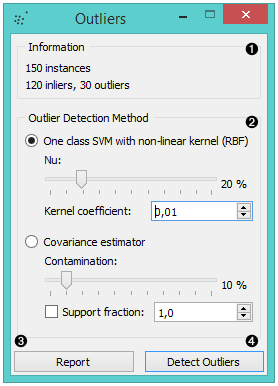
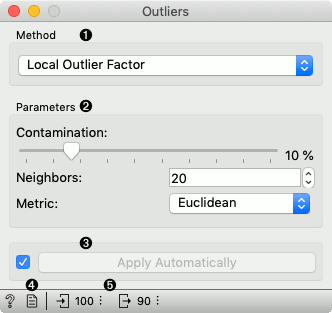
Deploy biolab/orange-hugo to github.com/biolab/orange-hugo.git:gh-pages

diff --git a/categories/predictive-analytics/index.html b/categories/predictive-analytics/index.html
@@ -1,6 +1,6 @@
 <html>    
     <head>
-    <title>Orange Data Mining - Predictive  Analytics</title>
+    <title>Orange Data Mining - Predictive Analytics</title>
     <meta http-equiv="X-UA-Compatible" content="IE=edge">
     <meta name="viewport" content="width=device-width, initial-scale=1.0">
     <meta name="description" content="Orange Data Mining Toolbox">
@@ -242,7 +242,7 @@
 
           
           
-          <li style="display: inline;"><a href="/categories/predictive--analytics" class="active-tag" style="margin-top: 20px !important;">predictive--analytics</a></li>
+          <li style="display: inline;"><a href="/categories/predictive-analytics" class="active-tag" style="margin-top: 20px !important;">predictive-analytics</a></li>
           
 
 
@@ -258,14 +258,14 @@
             
             <div class='content col-md-12 col-xs-12 feature-description' >
             
-            <p class="feature-text" style="margin-bottom:0 !important;font-size: 14px !important;">By: AJDA, Nov 29, 2017</p>
+            <p class="feature-text" style="margin-bottom:0 !important;font-size: 14px !important;">By: AJDA, Nov 30, 2016</p>
                     <h2 class="workflow-title" style="margin-top: 10px !important">
-                        <a href="/blog/2017/11/29/how-to-properly-test-models/" > How to Properly Test Models</a>
+                        <a href="/blog/2016/11/30/data-mining-for-political-scientists/" > Data Mining for Political Scientists</a>
                     </h2>
                 <p class="feature-text">
                   
-               On Monday we finished the second part of the workshop for the Statistical Office of Republic of Slovenia. The crowd was tough - these guys knew their numbers and asked many challenging questions. And we loved it!
-One thing we discussed was how to properly test your model. Ok, we know never to test on the same data you&rsquo;ve built your model with, but even training and testing on separate data is sometimes not enough.
+               Being a political scientist, I did not even hear about data mining before I&rsquo;ve joined Biolab. And naturally, as with all good things, data mining started to grow on me. Give me some data, connect a bunch of widgets and see the magic happen!
+But hold on! There are still many social scientists out there who haven&rsquo;t yet heard about the wonderful world of data mining, text mining and machine learning.
                
 
              </p>
@@ -278,18 +278,26 @@ One thing we discussed was how to properly test your model. Ok, we know never to
                     
                     <a class="tag-workflow" href="/categories/education">education</a>
                     
-                    <a class="tag-workflow" href="/categories/overfitting">overfitting</a>
+                    <a class="tag-workflow" href="/categories/examples">examples</a>
                     
-                    <a class="tag-workflow" href="/categories/predictive--analytics">predictive  analytics</a>
+                    <a class="tag-workflow" href="/categories/orange3">orange3</a>
                     
-                    <a class="tag-workflow" href="/categories/scoring">scoring</a>
+                    <a class="tag-workflow" href="/categories/prediction">prediction</a>
                     
-                    <a class="tag-workflow" href="/categories/workshop">workshop</a>
+                    <a class="tag-workflow" href="/categories/predictive-analytics">predictive analytics</a>
+                    
+                    <a class="tag-workflow" href="/categories/preprocessing">preprocessing</a>
+                    
+                    <a class="tag-workflow" href="/categories/text-mining">text mining</a>
+                    
+                    <a class="tag-workflow" href="/categories/tutorial">tutorial</a>
+                    
+                    <a class="tag-workflow" href="/categories/widget">widget</a>
                     
                 </div>
                 <div class="getting-started-button" >
                         
-                    <a href="/blog/2017/11/29/how-to-properly-test-models/" class="no-break-buttons">
+                    <a href="/blog/2016/11/30/data-mining-for-political-scientists/" class="no-break-buttons">
                     <div class="learn-more feature-block">
                         <div class="feature-block feature-link">Read More</div>
                         <div class="feature-block fa fa-arrow-circle-o-right jsonly" > </div>
@@ -306,43 +314,33 @@ One thing we discussed was how to properly test your model. Ok, we know never to
             
             <div class='content col-md-12 col-xs-12 feature-description' >
             
-            <p class="feature-text" style="margin-bottom:0 !important;font-size: 14px !important;">By: AJDA, Apr 7, 2017</p>
+            <p class="feature-text" style="margin-bottom:0 !important;font-size: 14px !important;">By: AJDA, Jan 22, 2016</p>
                     <h2 class="workflow-title" style="margin-top: 10px !important">
-                        <a href="/blog/2017/04/07/model-replaces-classify-and-regression/" > Model replaces Classify and Regression</a>
+                        <a href="/blog/2016/01/22/predictive-analytics-with-orange/" > Making Predictions</a>
                     </h2>
                 <p class="feature-text">
                   
-               Did you recently wonder where did Classification Tree go? Or what happened to Majority?
-Orange 3.4.0 introduced a new widget category, Model, which now contains all supervised learning algorithms in one place and replaces the separate Classify and Regression categories.
-This, however, was not a mere cosmetic change to the widget hierarchy. We wanted to simplify the interface for new users and make finding an appropriate learning algorithm easier. Moreover, now you can reuse some workflows on different data sets, say housing.
+               One of the cool things about being a data scientist is being able to predict. That is, predict before we know the actual outcome. I am not talking about verifying your favorite classification algorithm here, and I am not talking about cross-validation or classification accuracies or AUC or anything like that. I am talking about the good old prediction. This is where our very own Predictions widget comes to help.
                
 
              </p>
                 <div class="tags"  style="padding-bottom: 10px;">
                     Categories:
                     
-                    <a class="tag-workflow" href="/categories/classification">classification</a>
+                    <a class="tag-workflow" href="/categories/analysis">analysis</a>
                     
-                    <a class="tag-workflow" href="/categories/features">features</a>
+                    <a class="tag-workflow" href="/categories/data">data</a>
                     
-                    <a class="tag-workflow" href="/categories/interface">interface</a>
+                    <a class="tag-workflow" href="/categories/examples">examples</a>
                     
-                    <a class="tag-workflow" href="/categories/orange3">orange3</a>
+                    <a class="tag-workflow" href="/categories/predictive-analytics">predictive analytics</a>
                     
-                    <a class="tag-workflow" href="/categories/prediction">prediction</a>
-                    
-                    <a class="tag-workflow" href="/categories/predictive--analytics">predictive  analytics</a>
-                    
-                    <a class="tag-workflow" href="/categories/regression">regression</a>
-                    
-                    <a class="tag-workflow" href="/categories/toolbox">toolbox</a>
-                    
-                    <a class="tag-workflow" href="/categories/update">update</a>
+                    <a class="tag-workflow" href="/categories/widget">widget</a>
                     
                 </div>
                 <div class="getting-started-button" >
                         
-                    <a href="/blog/2017/04/07/model-replaces-classify-and-regression/" class="no-break-buttons">
+                    <a href="/blog/2016/01/22/predictive-analytics-with-orange/" class="no-break-buttons">
                     <div class="learn-more feature-block">
                         <div class="feature-block feature-link">Read More</div>
                         <div class="feature-block fa fa-arrow-circle-o-right jsonly" > </div>

diff --git a/widget-catalog/data/outliers/index.html b/widget-catalog/data/outliers/index.html
@@ -186,13 +186,12 @@
 
 <h1 id="outliers">Outliers</h1>
 
-<p>Simple outlier detection by comparing distances between instances.</p>
+<p>Outlier detection widget.</p>
 
 <p><strong>Inputs</strong></p>
 
 <ul>
 <li>Data: input dataset</li>
-<li>Distances: distance matrix</li>
 </ul>
 
 <p><strong>Outputs</strong></p>
@@ -200,37 +199,59 @@
 <ul>
 <li>Outliers: instances scored as outliers</li>
 <li>Inliers: instances not scored as outliers</li>
+<li>Data: input dataset appended <em>Outlier</em> variable</li>
 </ul>
 
-<p>The <strong>Outliers</strong> widget applies one of the two methods for outlier detection. Both methods apply classification to the dataset, one with SVM (multiple kernels) and the other with elliptical envelope. <em>One-class SVM with non-linear kernels (RBF)</em> performs well with non-Gaussian distributions, while <em>Covariance estimator</em> works only for data with Gaussian distribution.</p>
+<p>The <strong>Outliers</strong> widget applies one of the four methods for outlier detection. All methods apply classification to the dataset. <em>One-class SVM with non-linear kernels (RBF)</em> performs well with non-Gaussian distributions, while <em>Covariance estimator</em> works only for data with Gaussian distribution. One efficient way to perform outlier detection on moderately high dimensional datasets is to use the <em>Local Outlier Factor</em> algorithm. The algorithm computes a score reflecting the degree of abnormality of the observations. It measures the local density deviation of a given data point with respect to its neighbors. Another efficient way of performing outlier detection in high-dimensional datasets is to use random forests (<em>Isolation Forest</em>).</p>
 
 <p><img src="../images/Outliers-stamped.png" alt="" /></p>
 
 <ol>
-<li>Information on the input data, number of inliers and outliers based on the selected model.</li>
-<li>Select the <em>Outlier detection method</em>:
+<li>Method for outlier detection:
+
+<ul>
+<li><a href="http://scikit-learn.org/stable/modules/generated/sklearn.svm.OneClassSVM.html">One Class SVM</a></li>
+<li><a href="http://scikit-learn.org/stable/modules/generated/sklearn.covariance.EllipticEnvelope.html">Covariance Estimator</a></li>
+<li><a href="http://scikit-learn.org/stable/modules/generated/sklearn.neighbors.LocalOutlierFactor.html">Local Outlier Factor</a></li>
+<li><a href="http://scikit-learn.org/stable/modules/generated/sklearn.ensemble.IsolationForest.html">Isolation Forest</a></li>
+</ul></li>
+<li>Set parameters for the method:
 
 <ul>
 <li><strong>One class SVM with non-linear kernel (RBF)</strong>: classifies data as similar or different from the core class:
 
 <ul>
-<li><strong>Nu</strong> is a parameter for the upper bound on the fraction of training errors and a lower bound of the fraction of support vectors</li>
-<li><strong>Kernel coefficient</strong> is a gamma parameter, which specifies how much influence a single data instance has</li>
+<li><em>Nu</em> is a parameter for the upper bound on the fraction of training errors and a lower bound of the fraction of support vectors</li>
+<li><em>Kernel coefficient</em> is a gamma parameter, which specifies how much influence a single data instance has</li>
 </ul></li>
-<li><strong>Covariance estimator</strong>: fits ellipsis to central points with Mahalanobis distance metric
+<li><strong>Covariance estimator</strong>: fits ellipsis to central points with Mahalanobis distance metric:
 
 <ul>
-<li><strong>Contamination</strong> is the proportion of outliers in the dataset</li>
-<li><strong>Support fraction</strong> specifies the proportion of points included in the estimate</li>
+<li><em>Contamination</em> is the proportion of outliers in the dataset</li>
+<li><em>Support fraction</em> specifies the proportion of points included in the estimate</li>
+</ul></li>
+<li><strong>Local Outlier Factor</strong>: obtains local density from the k-nearest neighbors:
+
+<ul>
+<li><em>Contamination</em> is the proportion of outliers in the dataset</li>
+<li><em>Neighbors</em> represents number of neighbors</li>
+<li><em>Metric</em> is the distance measure</li>
+</ul></li>
+<li><strong>Isolation Forest</strong>: isolates observations by randomly selecting a feature and then randomly selecting a split value between the maximum and minimum values of the selected feature:
+
+<ul>
+<li><em>Contamination</em> is the proportion of outliers in the dataset</li>
+<li><em>Replicabe training</em> fixes random seed</li>
 </ul></li>
 </ul></li>
+<li>If <em>Apply automatically</em> is ticked, changes will be propagated automatically. Alternatively, click <em>Apply</em>.</li>
 <li>Produce a report.</li>
-<li>Click <em>Detect outliers</em> to output the data.</li>
+<li>Number of instances on the input, followed by number of instances scored as inliers.</li>
 </ol>
 
 <h2 id="example">Example</h2>
 
-<p>Below, is a simple example of how to use this widget. We used the <em>Iris</em> dataset to detect the outliers. We chose the <em>one class SVM with non-linear kernel (RBF)</em> method, with Nu set at 20% (less training errors, more support vectors). Then we observed the outliers in the <a href="../data/datatable.md">Data Table</a> widget, while we sent the inliers to the <a href="../../visualize/scatterplot/">Scatter Plot</a>.</p>
+<p>Below is an example of how to use this widget. We used subset (<em>versicolor</em> and <em>virginica</em> instances) of the <em>Iris</em> dataset to detect the outliers. We chose the <em>Local Outlier Factor</em> method, with <em>Euclidean</em> distance. Then we observed the annotated instances in the <a href="../visualize/scatterplot.md">Scatter Plot</a> widget. In the next step we used the <em>setosa</em> instances to demonstrate novelty detection using <a href="../../data/applydomain/">Apply Domain</a> widget. After concatenating both outputs we examined the outliers in the <em>Scatter Plot (1)</em>.</p>
 
 <p><img src="../images/Outliers-Example.png" alt="" /></p>
 
